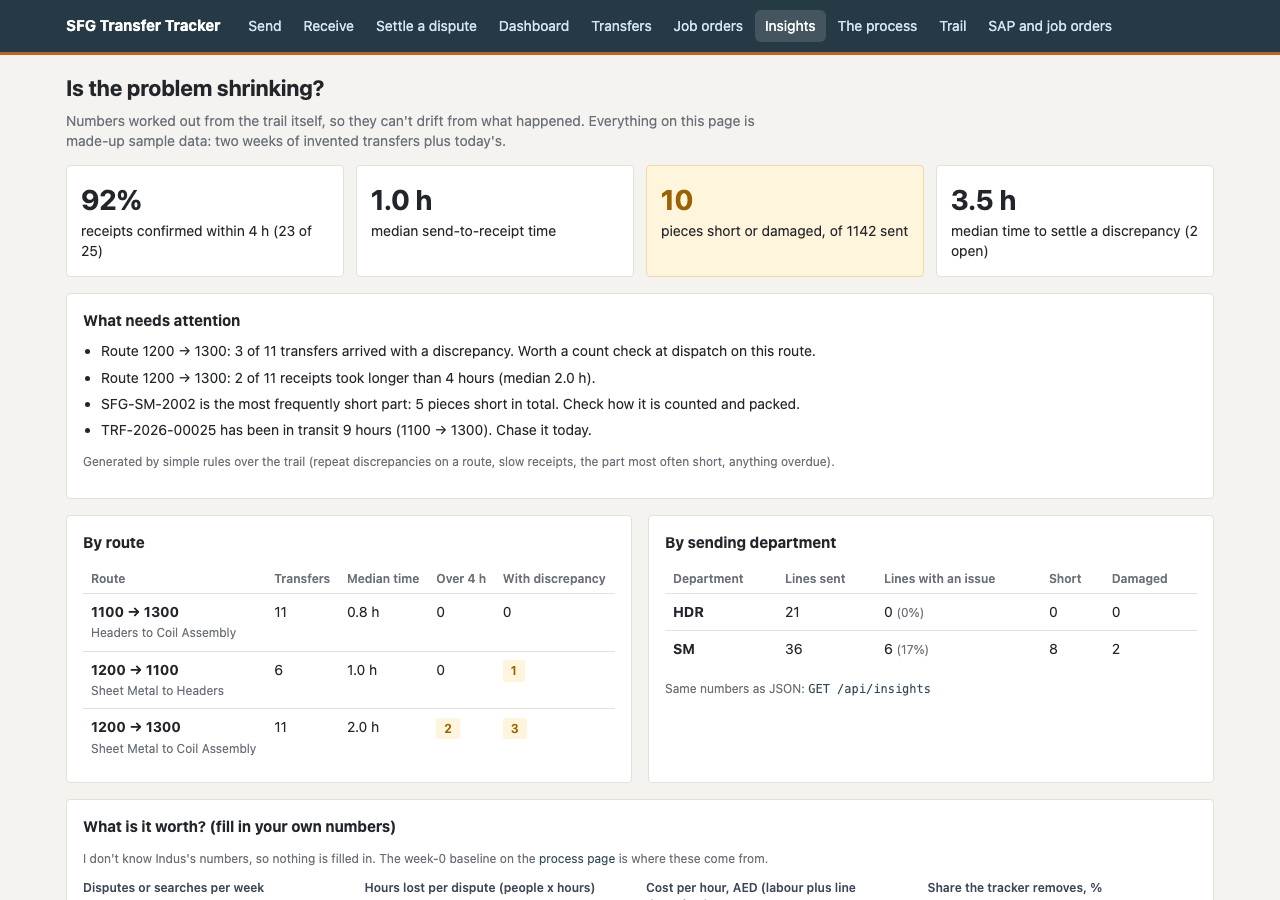
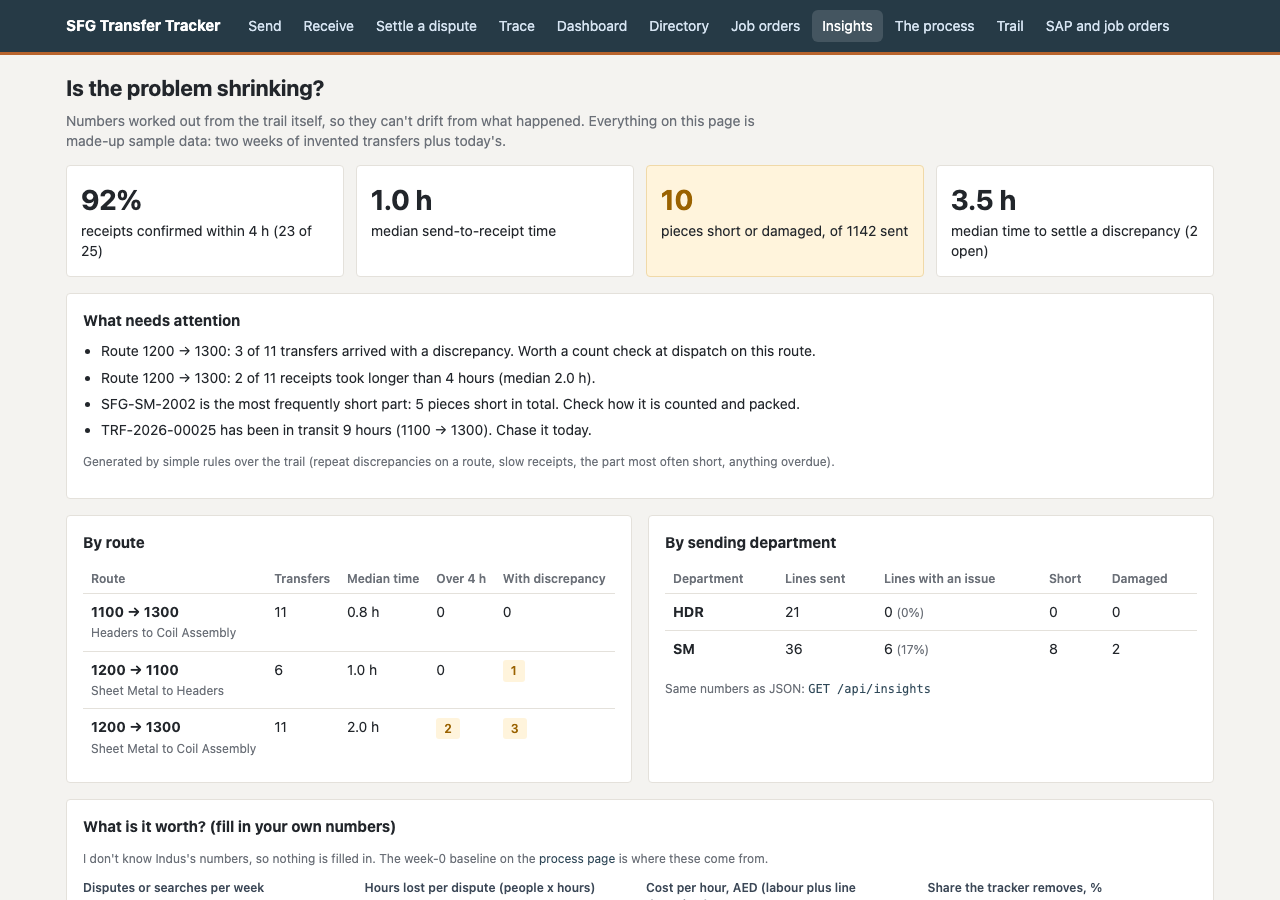
Repo hygiene: lint config and CI, wrapped long lines, removed unused Render config, README layout and development notes, fresh screenshots

Changed region(s): [[0.4062, 0.0, 0.75, 0.0622], [0.7812, 0.0, 0.9062, 0.0311]]

diff --git a/tracker/core.py b/tracker/core.py
@@ -9,6 +9,7 @@ functions, so there is exactly one set of rules.
 import hashlib
 import json
 import os
+import re
 import sqlite3
 from contextlib import contextmanager
 from datetime import datetime, timedelta, timezone
@@ -355,7 +356,8 @@ def _validate_send(con, job_order_no, from_plant, from_dept, to_plant, lines, se
         room = comp["qty_required"] - done
         if qty > room:
             raise TrackerError(f"Line {i}: {job_order_no} needs {comp['qty_required']:g} x {mat}; "
-                               f"{done:g} are already received or on the way, so at most {max(room, 0):g} more can be sent.")
+                               f"{done:g} are already received or on the way, "
+                               f"so at most {max(room, 0):g} more can be sent.")
         clean.append({"material_no": mat, "qty": qty, "uom": m["uom"],
                       "batch": str(ln.get("batch") or "").strip()})
     if not clean:
@@ -702,7 +704,8 @@ def dispute_verdict(con, transfer_no, sla_hours, now=None):
     open_d = [d for d in disc if d["status"] == "OPEN"]
 
     if t["status"] == "IN_TRANSIT":
-        got_txt = f"No receipt has been confirmed at plant {t['to_plant']}. The parts have been in transit {h:.1f} hours."
+        got_txt = (f"No receipt has been confirmed at plant {t['to_plant']}. "
+                   f"The parts have been in transit {h:.1f} hours.")
         if h > sla_hours:
             got_txt += f" That is past the {sla_hours:g}-hour limit."
         custody = (f"Last confirmed hand-off: plant {t['from_plant']} to "
@@ -803,11 +806,12 @@ def trace(con, q):
     elif con.execute("SELECT 1 FROM job_orders WHERE job_order_no = ?", (q,)).fetchone():
         kind = "job order"
         transfers = [r[0] for r in con.execute("SELECT transfer_no FROM transfers WHERE job_order_no = ?", (q,))]
-        extra_events = [r for r in con.execute("SELECT * FROM events WHERE event_type = 'JOB_ORDERS_SYNCED' ORDER BY id")
-                        if q in r["payload"]]
+        syncs = con.execute("SELECT * FROM events WHERE event_type = 'JOB_ORDERS_SYNCED' ORDER BY id")
+        extra_events = [r for r in syncs if q in r["payload"]]
     elif con.execute("SELECT 1 FROM materials WHERE material_no = ?", (q,)).fetchone():
         kind = "part"
-        transfers = [r[0] for r in con.execute("SELECT DISTINCT transfer_no FROM transfer_lines WHERE material_no = ?", (q,))]
+        transfers = [r[0] for r in con.execute(
+            "SELECT DISTINCT transfer_no FROM transfer_lines WHERE material_no = ?", (q,))]
     else:
         rows = con.execute("SELECT DISTINCT transfer_no FROM transfer_lines WHERE UPPER(batch) = ?", (q,)).fetchall()
         if rows:
@@ -824,16 +828,19 @@ def trace(con, q):
         real = [d for d in disc if d["kind"] != "NOT_RECEIVED"]
         steps = [
             {"label": "Job order", "detail": tr["job_order_no"], "state": "done"},
-            {"label": "Sent", "detail": f"{tr['from_plant']}/{tr['from_dept']} by {tr['sent_by']}", "state": "done", "ts": tr["sent_at"]},
+            {"label": "Sent", "detail": f"{tr['from_plant']}/{tr['from_dept']} by {tr['sent_by']}",
+             "state": "done", "ts": tr["sent_at"]},
             {"label": "In transit", "detail": tr["vehicle_ref"] or "transport",
              "state": "now" if tr["status"] == "IN_TRANSIT" else "done"},
-            {"label": "Counted", "detail": (f"at {tr['to_plant']} by {tr['received_by']}" if tr["received_at"] else "waiting"),
+            {"label": "Counted",
+             "detail": f"at {tr['to_plant']} by {tr['received_by']}" if tr["received_at"] else "waiting",
              "state": "done" if tr["received_at"] else "todo", "ts": tr["received_at"]},
             {"label": "Differences", "detail": ("none" if tr["received_at"] and not real else
                                                 (f"{len(real)} raised" if real else "after the count")),
              "state": ("todo" if not tr["received_at"] else ("done" if not real else
                        ("done" if all(d["status"] == "RESOLVED" for d in real) else "now")))},
-            {"label": "SAP 303 / 305", "detail": "export ready" if tr["received_at"] else "303 ready, 305 after the count",
+            {"label": "SAP 303 / 305",
+             "detail": "export ready" if tr["received_at"] else "303 ready, 305 after the count",
              "state": "done" if tr["received_at"] else "todo"},
         ]
     return {"kind": kind, "q": q, "transfers": transfers,
@@ -863,7 +870,8 @@ def shift_digest(con, sla_hours, now=None, hours=12):
         lines.append(f"Overdue ({len(late)}):")
         for t in late:
             h = (now - from_iso(t["sent_at"])).total_seconds() / 3600
-            lines.append(f"- {t['transfer_no']} {t['from_plant']} to {t['to_plant']}, {h:.0f} h, sent by {t['sent_by']}")
+            lines.append(f"- {t['transfer_no']} {t['from_plant']} to {t['to_plant']}, "
+                         f"{h:.0f} h, sent by {t['sent_by']}")
     else:
         lines.append("Overdue: none.")
     if open_d:
@@ -881,14 +889,12 @@ def shift_digest(con, sla_hours, now=None, hours=12):
 
 # --- send by message -------------------------------------------------------
 
-import re as _re
-
 _STOP = {"x", "pcs", "pc", "nos", "no", "of", "the", "and", "to", "for", "from", "plant", "jo", "sent", "sending"}
 
 
 def _words(s):
     out = set()
-    for w in _re.findall(r"[a-z0-9/]+", s.lower()):
+    for w in re.findall(r"[a-z0-9/]+", s.lower()):
         if w in _STOP:
             continue
         out.add(w[:-1] if w.endswith("s") and len(w) > 3 else w)
@@ -902,7 +908,7 @@ def parse_message(con, text):
     who makes them, and a person still checks and confirms the form."""
     text = (text or "").strip()
     out = {"lines": [], "warnings": []}
-    m = _re.search(r"JO[\s-]*(\d{4})[\s-]*(\d{3,4})", text, _re.I) or _re.search(r"JO[\s-]*(\d{3,4})\b", text, _re.I)
+    m = re.search(r"JO[\s-]*(\d{4})[\s-]*(\d{3,4})", text, re.I) or re.search(r"JO[\s-]*(\d{3,4})\b", text, re.I)
     if not m:
         out["warnings"].append("No job order found. Add one like JO-2026-1042.")
         return out
@@ -915,7 +921,8 @@ def parse_message(con, text):
     bom = con.execute("SELECT c.*, m.description FROM job_order_components c JOIN materials m USING (material_no)"
                       " WHERE job_order_no = ?", (jo_no,)).fetchall()
     rest = text[m.end():]
-    for qm in _re.finditer(r"(\d+)\s*(?:x|pcs|nos)?\s+([A-Za-z][A-Za-z0-9/ \-.]{2,40}?)(?=,|;|\band\b|\d+\s|$|\n|\.)", rest, _re.I):
+    qty_phrase = r"(\d+)\s*(?:x|pcs|nos)?\s+([A-Za-z][A-Za-z0-9/ \-.]{2,40}?)(?=,|;|\band\b|\d+\s|$|\n|\.)"
+    for qm in re.finditer(qty_phrase, rest, re.I):
         qty, phrase = int(qm.group(1)), qm.group(2).strip()
         exact = [c for c in bom if c["material_no"].lower() in phrase.lower()]
         best = exact[0] if exact else None
@@ -937,10 +944,13 @@ def parse_message(con, text):
         d = con.execute("SELECT dept_code FROM departments WHERE plant_code = ? ORDER BY dept_code", (p,)).fetchone()
         mat_dept = con.execute("SELECT dept_code FROM materials WHERE material_no = ?",
                                (out["lines"][0]["material_no"],)).fetchone()
-        out["from_dept"] = (mat_dept["dept_code"] if mat_dept and mat_dept["dept_code"] else d["dept_code"]) if d else ""
+        if mat_dept and mat_dept["dept_code"]:
+            out["from_dept"] = mat_dept["dept_code"]
+        else:
+            out["from_dept"] = d["dept_code"] if d else ""
     elif len(plants) > 1:
         out["warnings"].append("Those parts come from different plants; send them as separate transfers.")
-    v = _re.search(r"((?:forklift\s+)?trolley\s*[A-Z0-9-]+|pickup\s*[A-Z0-9-]+|truck\s*[A-Z0-9-]+)", text, _re.I)
+    v = re.search(r"((?:forklift\s+)?trolley\s*[A-Z0-9-]+|pickup\s*[A-Z0-9-]+|truck\s*[A-Z0-9-]+)", text, re.I)
     if v:
         out["vehicle_ref"] = v.group(1).strip()
     if not out["lines"] and not out["warnings"]:

diff --git a/tests/test_flow.py b/tests/test_flow.py
@@ -134,11 +134,41 @@ def test_web_send_receive_and_api(tmp_path, monkeypatch):
     import app as appmod
     monkeypatch.setattr(appmod, "DB_PATH", db)
     client = appmod.app.test_client()
-    for path in ["/", "/send", "/receive", "/transfers", "/job-orders", "/trail", "/integration",
-                 "/job-orders/JO-2026-1041", "/transfers/TRF-2026-00001", "/transfers/TRF-2026-00001/slip",
-                 "/export/sap-goods-movements.csv", "/api/events", "/api/trail/verify",
-                 "/insights", "/api/insights", "/process", "/directory", "/digest", "/send?msg=JO-2026-1042%3A%2024%20end%20plates", "/trace", "/trace?q=TRF-2026-00026", "/api/trail/fingerprint", "/trail?check=abcdef12", "/trace?q=SFG-SM-2002", "/trace?q=JO-2026-1041", "/plants/1100", "/plants/1300", "/parts/SFG-SM-2002", "/dispute", "/dispute?q=TRF-2026-00001", "/dispute?q=JO-2026-1042",
-                 "/api/transfers/TRF-2026-00001/verdict"]:
+    pages = [
+        "/",
+        "/send",
+        "/receive",
+        "/transfers",
+        "/job-orders",
+        "/trail",
+        "/integration",
+        "/job-orders/JO-2026-1041",
+        "/transfers/TRF-2026-00001",
+        "/transfers/TRF-2026-00001/slip",
+        "/export/sap-goods-movements.csv",
+        "/api/events",
+        "/api/trail/verify",
+        "/insights",
+        "/api/insights",
+        "/process",
+        "/directory",
+        "/digest",
+        "/send?msg=JO-2026-1042%3A%2024%20end%20plates",
+        "/trace",
+        "/trace?q=TRF-2026-00026",
+        "/api/trail/fingerprint",
+        "/trail?check=abcdef12",
+        "/trace?q=SFG-SM-2002",
+        "/trace?q=JO-2026-1041",
+        "/plants/1100",
+        "/plants/1300",
+        "/parts/SFG-SM-2002",
+        "/dispute",
+        "/dispute?q=TRF-2026-00001",
+        "/dispute?q=JO-2026-1042",
+        "/api/transfers/TRF-2026-00001/verdict",
+    ]
+    for path in pages:
         assert client.get(path).status_code == 200, path
     r = client.post("/send", data={"job_order_no": "JO-2026-1043", "from_plant": "1200", "from_dept": "SM",
                                    "to_plant": "1300", "sent_by": "Web", "material_1": "SFG-SM-2003",
@@ -253,7 +283,8 @@ def test_trace_follows_anything(tmp_path):
     c = seed.build(str(tmp_path / "tr.db"), demo=True)
     t = core.trace(c, "TRF-2026-00026")
     assert t["kind"] == "transfer" and t["steps"][3]["state"] == "done" and t["events"]
-    batch = c.execute("SELECT batch FROM transfer_lines WHERE transfer_no = 'TRF-2026-00026' AND batch <> ''").fetchone()[0]
+    batch = c.execute("SELECT batch FROM transfer_lines WHERE transfer_no = 'TRF-2026-00026'"
+                      " AND batch <> ''").fetchone()[0]
     b = core.trace(c, batch.lower())
     assert b["kind"] == "batch" and "TRF-2026-00026" in b["transfers"]
     assert core.trace(c, "SFG-SM-2002")["kind"] == "part"
@@ -298,10 +329,11 @@ def test_shift_digest(tmp_path):
 def test_parse_message_fills_a_send(con):
     p = core.parse_message(con, "JO-2026-1042: 24 end plates and 12 drain pans, pickup DXB-K-55210")
     assert p["job_order_no"] == "JO-2026-1042" and p["from_plant"] == "1200" and p["to_plant"] == "1300"
-    assert [(l["material_no"], l["qty"]) for l in p["lines"]] == [("SFG-SM-2001", 24), ("SFG-SM-2003", 12)]
+    assert [(ln["material_no"], ln["qty"]) for ln in p["lines"]] == [("SFG-SM-2001", 24), ("SFG-SM-2003", 12)]
     assert p["vehicle_ref"].lower().startswith("pickup")
     h = core.parse_message(con, "jo 2026 1041 sending 20 inlet headers and 20 suction headers on trolley T-04")
-    assert {l["material_no"] for l in h["lines"]} == {"SFG-HDR-1001", "SFG-HDR-1002"} and h["from_plant"] == "1100"
+    assert {ln["material_no"] for ln in h["lines"]} == {"SFG-HDR-1001", "SFG-HDR-1002"}
+    assert h["from_plant"] == "1100"
     assert core.parse_message(con, "24 end plates")["warnings"]
     mixed = core.parse_message(con, "JO-2026-1041 20 inlet headers and 40 end plates")
     assert "different plants" in " ".join(mixed["warnings"])

diff --git a/app.py b/app.py
@@ -9,9 +9,7 @@ import json
 import os
 import re
 
-from flask import (Flask, Response, abort, flash, g, jsonify, redirect, render_template,
-                   request, url_for)
-
+from flask import Flask, Response, abort, flash, g, jsonify, redirect, render_template, request, url_for
 from werkzeug.middleware.proxy_fix import ProxyFix
 
 from tracker import core, seed

diff --git a/README.md b/README.md
@@ -8,9 +8,11 @@ I'm Nilay Toshniwal, final-year at BITS Pilani Goa; this is my 5-hour assignment
 
 **Design note (1 page):** [NOTE.md](NOTE.md)
 
-| Settle a dispute | Dashboard | Insights |
-|---|---|---|
-| ![Verdict for a transfer that was sent but never received](docs/dispute.png) | ![Dashboard](docs/dashboard.png) | ![Insights](docs/insights.png) |
+| Settle a dispute | Trace |
+|---|---|
+| ![Verdict for a transfer that was sent but never received](docs/dispute.png) | ![Trace of a transfer that arrived short](docs/trace.png) |
+| **Dashboard** | **Insights** |
+| ![Dashboard](docs/dashboard.png) | ![Insights](docs/insights.png) |
 
 ## The process it supports
 
@@ -134,13 +136,25 @@ Plant codes, material numbers, batch and unit of measure follow SAP's shape. A s
 ## Project layout
 
 ```
-app.py                 web pages + JSON API
-tracker/core.py        business rules and the trail
+app.py                 web pages and JSON API (thin: every rule lives in tracker/core.py)
+tracker/core.py        business rules, the trail, verdicts, trace, metrics, message parsing
 tracker/schema.sql     data model
-tracker/seed.py        builds the demo database
+tracker/seed.py        builds the demo database (master data, job orders, two weeks of history)
 data/                  dummy job order file and master data
-templates/, static/    UI
+templates/, static/    UI (server-rendered HTML, one stylesheet)
 tests/test_flow.py     24 end-to-end checks
-run.sh                 one-command start
-render.yaml            config for an alternative host (Render); the live demo runs on PythonAnywhere
+docs/                  screenshots for this README
+run.sh                 one-command start (and `reset`, `test`)
+pyproject.toml         lint and test settings
+.github/workflows/     runs lint and tests on every push
 ```
+
+## Development
+
+```bash
+./run.sh test                    # 24 tests
+.venv/bin/pip install -r requirements-dev.txt
+.venv/bin/ruff check .           # lint
+```
+
+The live demo is a PythonAnywhere web app pointing at this repo: `git pull`, `python -m tracker.seed` for fresh sample data, then reload.
